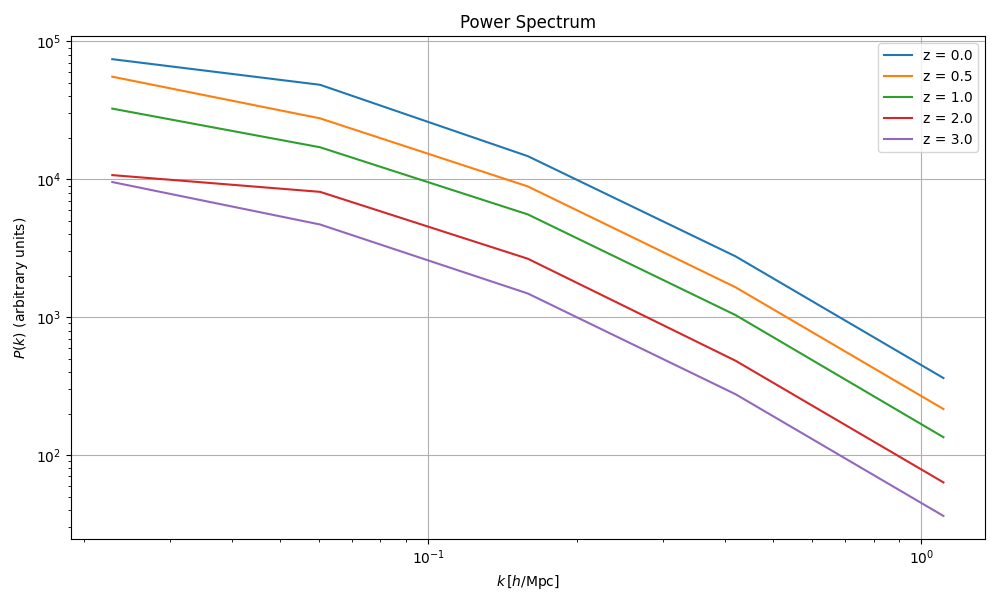
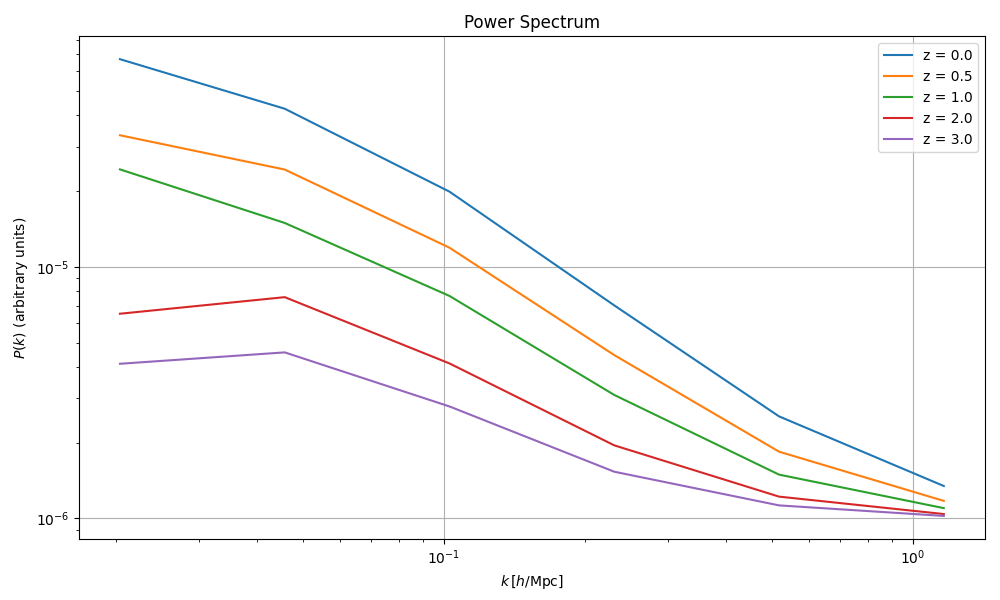
Update Gaussian and galaxy fields for Planck and w0wa models; fix normalization and bias expansion

diff --git a/src/galaxy_bias_expansion.py b/src/galaxy_bias_expansion.py
@@ -66,7 +66,7 @@ def galaxy_bias_field(delta, box_size, b1, b2, bG2, n_bar):
 
     # Bias operators in Lagrangian space
     delta_squared = delta**2
-    delta_squared -= np.mean(delta_squared) # Eq. 8 and 9 
+    delta_squared -= np.mean(delta_squared) # Eq. 8 and 9
 
     # Tidal operator G2
     kf = 2 * np.pi / box_size   
@@ -108,6 +108,8 @@ def galaxy_bias_field(delta, box_size, b1, b2, bG2, n_bar):
         epsilon = np.random.normal(loc=0.0, scale=noise_std, size=delta.shape)  # scale such that P(k) is 1/n_bar; 3d grid.
         delta_h += epsilon  # stochastic component
 
+    delta_h -= np.mean(delta_h)  # Remove mean to avoid bias
+    
     return delta_h
 
 def main():
@@ -124,9 +126,9 @@ def main():
     output_dir = os.path.join(model_dir, "galaxy_field")
     os.makedirs(output_dir, exist_ok=True)
 
-    box_size = 500.0
-    b1, b2, bG2 = 1.5, 0.5, 0.5   #adjustable bias parameters
-    n_bar = None
+    box_size = 1000.0
+    b1, b2, bG2 = 1.2, -0.405, -0.127   #b1 from DESI 2016 BSG Figure 3.4, scaling from Chen et al. (2019)
+    n_bar = 1e-3  # DESI DR2 BGS number density Figure 3
 
     for filename in sorted(os.listdir(input_dir)):
         if filename.endswith(".npy"):

diff --git a/src/generate_gaussian_field.py b/src/generate_gaussian_field.py
@@ -7,6 +7,8 @@ from scipy.interpolate import interp1d
 def generate_gaussian_field(pk_file, box_size=1000.0, n_grid=256): #Box size in Mpc/h; 128^3 grid points
     data = np.loadtxt(pk_file)  # Load P(k)
     k_vals, pk_vals = data[:, 0], data[:, 1]
+    volume = box_size**3
+    pk_vals /= volume
 
     # Interpolation: don't crash outside k_vals range but assume P(k)=0
     pk_interp = interp1d(k_vals, pk_vals, bounds_error=False, fill_value=0) 
@@ -27,7 +29,11 @@ def generate_gaussian_field(pk_file, box_size=1000.0, n_grid=256): #Box size in 
     field_k = noise * amplitude #correctly scaled noise
     
     field_k[0, 0, 0] = 0.0  # Set zero mode to 0 (remove biased background)
-    field_real = np.fft.ifftn(field_k).real # Inverse FFT to get real-space field
+    field_real = np.fft.ifftn(field_k, norm="forward").real # Inverse FFT to get real-space field
+
+    print("Field variance (real space):", np.var(field_real))
+    print("Field mean (real space):", np.mean(field_real))
+    print("Typical P(k):", np.median(pk_interp(k_mag)))
 
     return field_real
 

diff --git a/src/field_power_spectrum.py b/src/field_power_spectrum.py
@@ -14,7 +14,7 @@ def extract_redshift(filename):
         return None
 
 def compute_power_spectrum(field, box_size):
-    field_k = np.fft.fftn(field)    # real space to Fourier space: δ(k)
+    field_k = np.fft.fftn(field, norm="forward")    # real space to Fourier space: δ(k)
     power = np.abs(field_k)**2  # P(k) = |δ(k)|^2
 
     # k-grid
@@ -43,7 +43,7 @@ def compute_power_spectrum(field, box_size):
 
     k_min = k_mag_nonzero.min()
     k_max = np.pi * n_grid / box_size  # Nyquist frequency
-    k_bins = np.logspace(np.log10(k_min), np.log10(k_max), num=6)
+    k_bins = np.logspace(np.log10(k_min), np.log10(k_max), num=7)
 
 
     # Bin power spectrum by |k| to get P(k)

diff --git a/README.md b/README.md
@@ -1,4 +1,4 @@
-# Generating Mock Galaxy Catalogs to Recover Cosmological Parameters
+# Generating Mock Galaxy Catalogs
  
  This project computes the matter power spectrum $P(k, z)$ using CLASS (via `classy`) for multiple cosmological models — including Planck 2018 ΛCDM and a DESI DR2–inspired $w_0w_a$ dark energy model. It outputs power spectra across redshifts and visualizes how structure grows over time.
  
